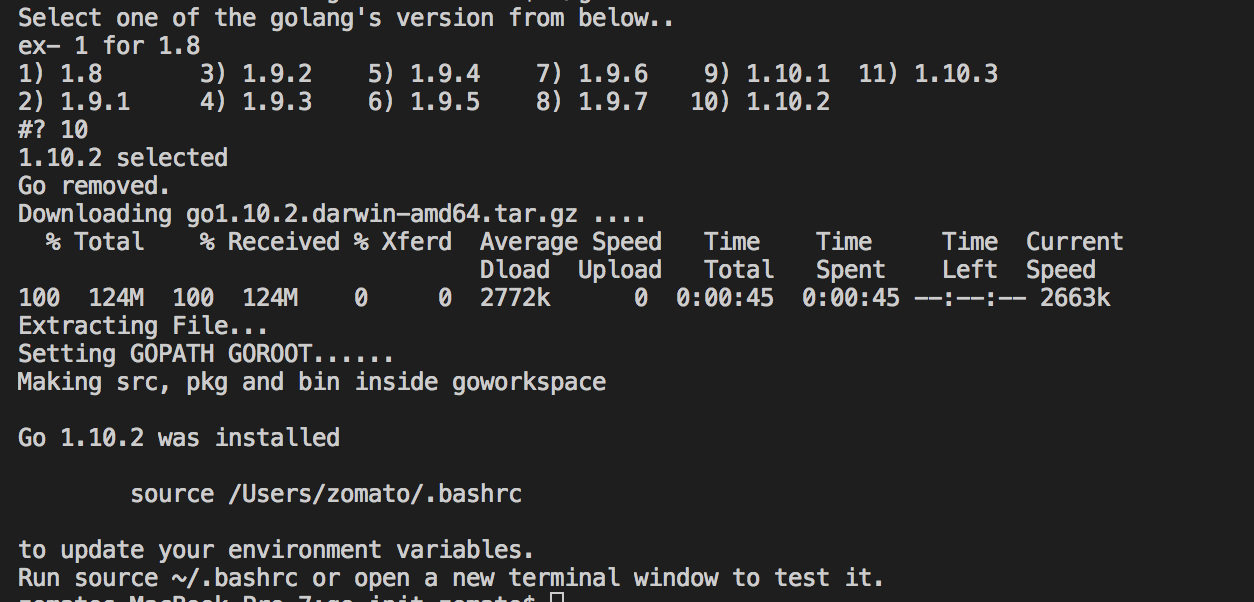
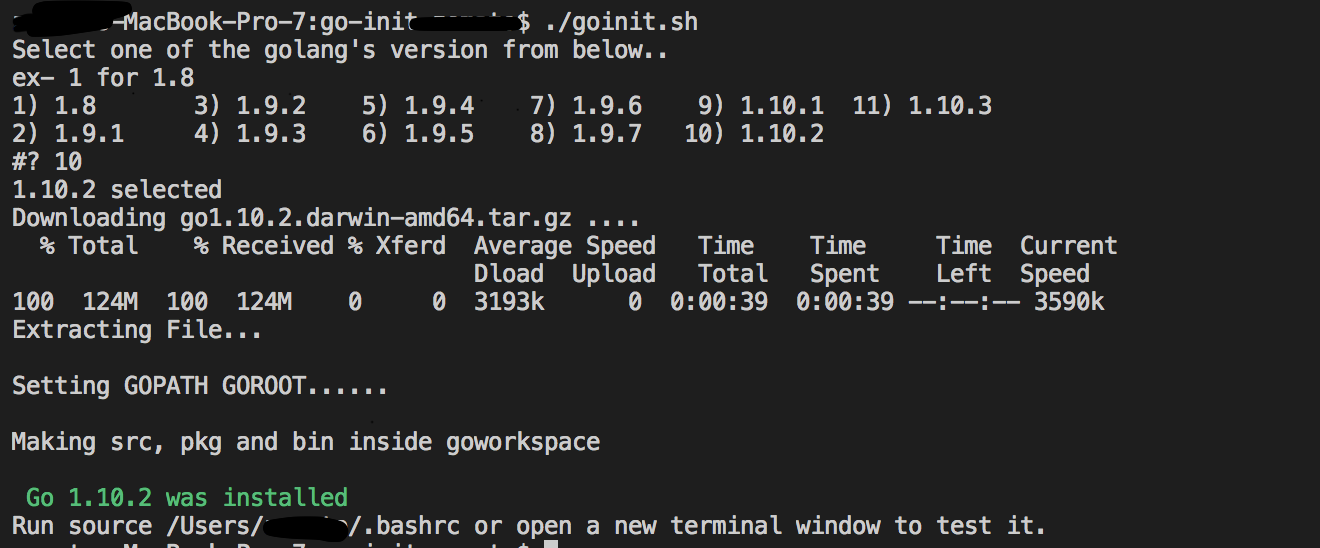
Readme and example snap updated ✨

diff --git a/README.md b/README.md
@@ -14,6 +14,7 @@
 - Extracts the binary and runs it,
 - Setups $GOROOT and $GOPATH by entering required path variables into your zsh or bash shell automatically.
 - Removes the downloaded .gz file and cleans things up.
+- Remove past installations using the script.
 
 It is written with an aim to fasten golang setup. 
 
@@ -35,10 +36,14 @@ $ git clone git@github.com:solodynamo/go-init.git
 ```
 
 ## Usage
+- install go
 ```html
 ./goinit.sh
 ```
-
+- removes go
+```html
+./goinit.sh -goaway
+```
 ## Example
 <h3 align="center">
     <br>
